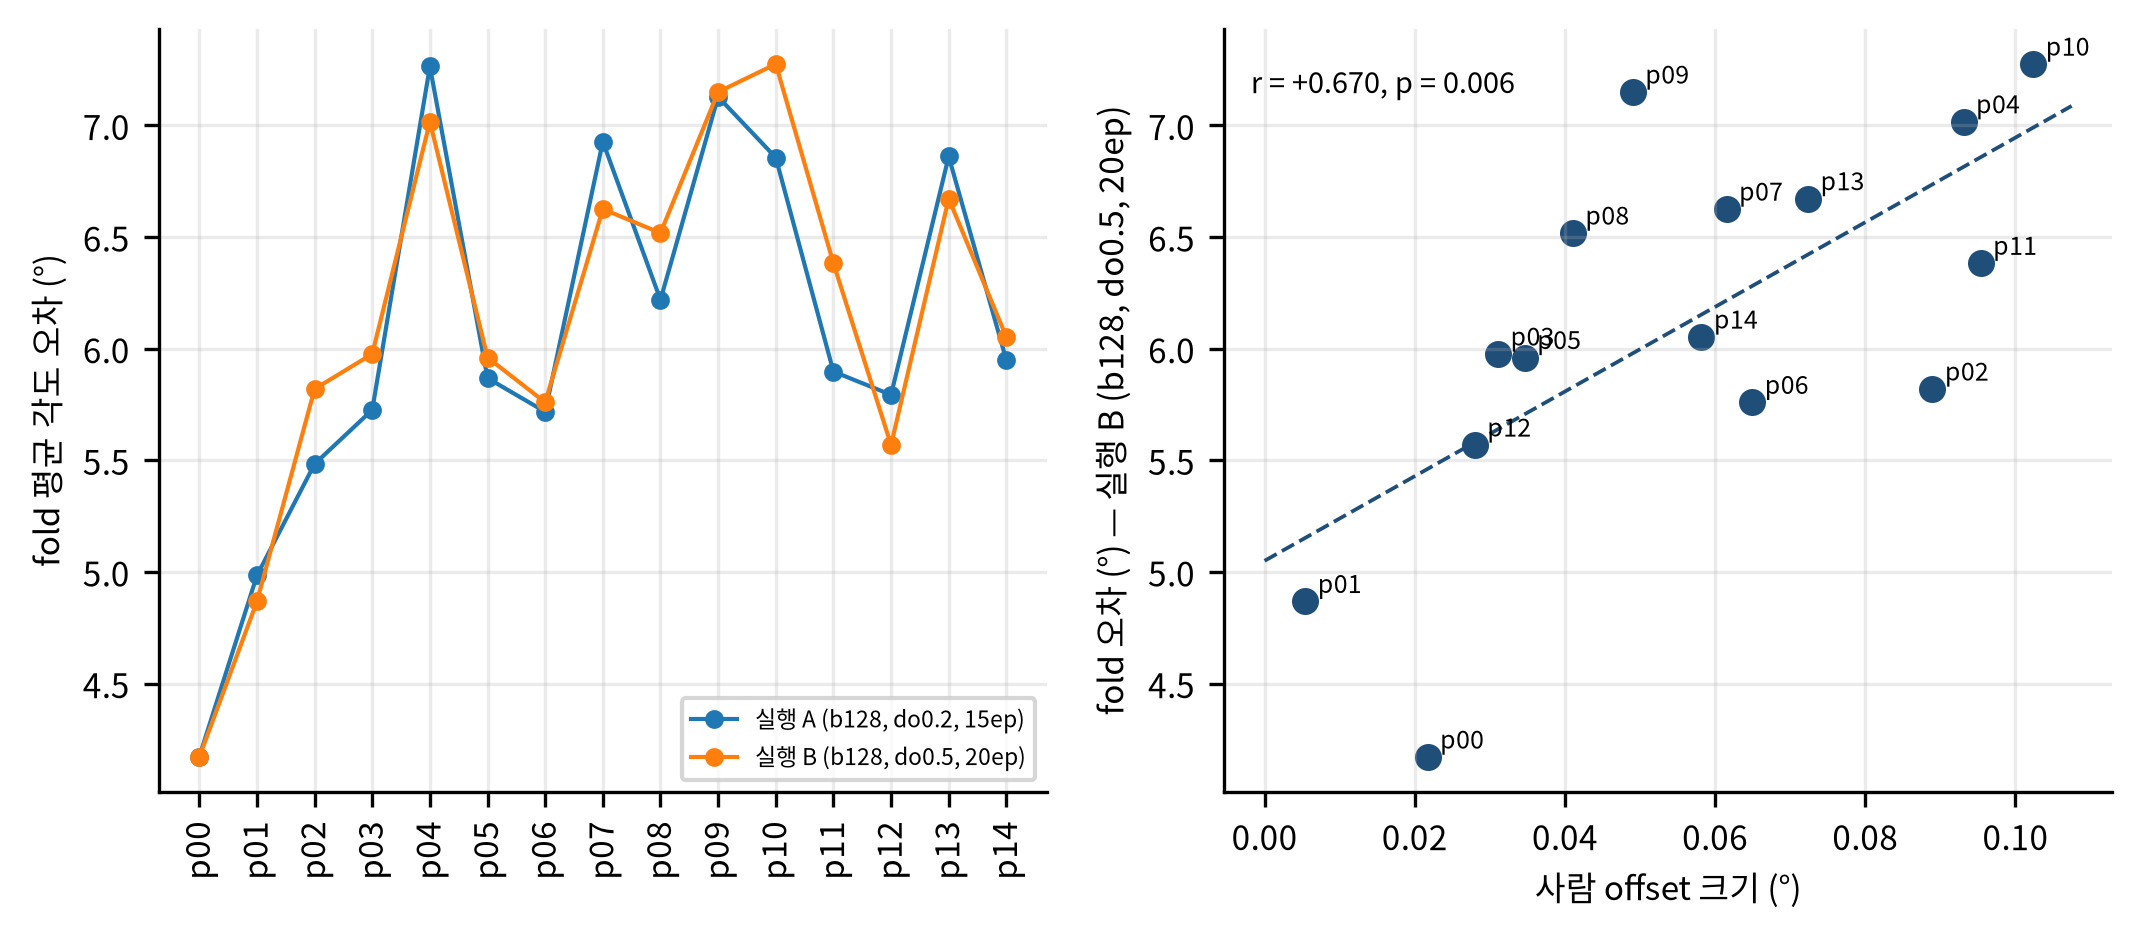
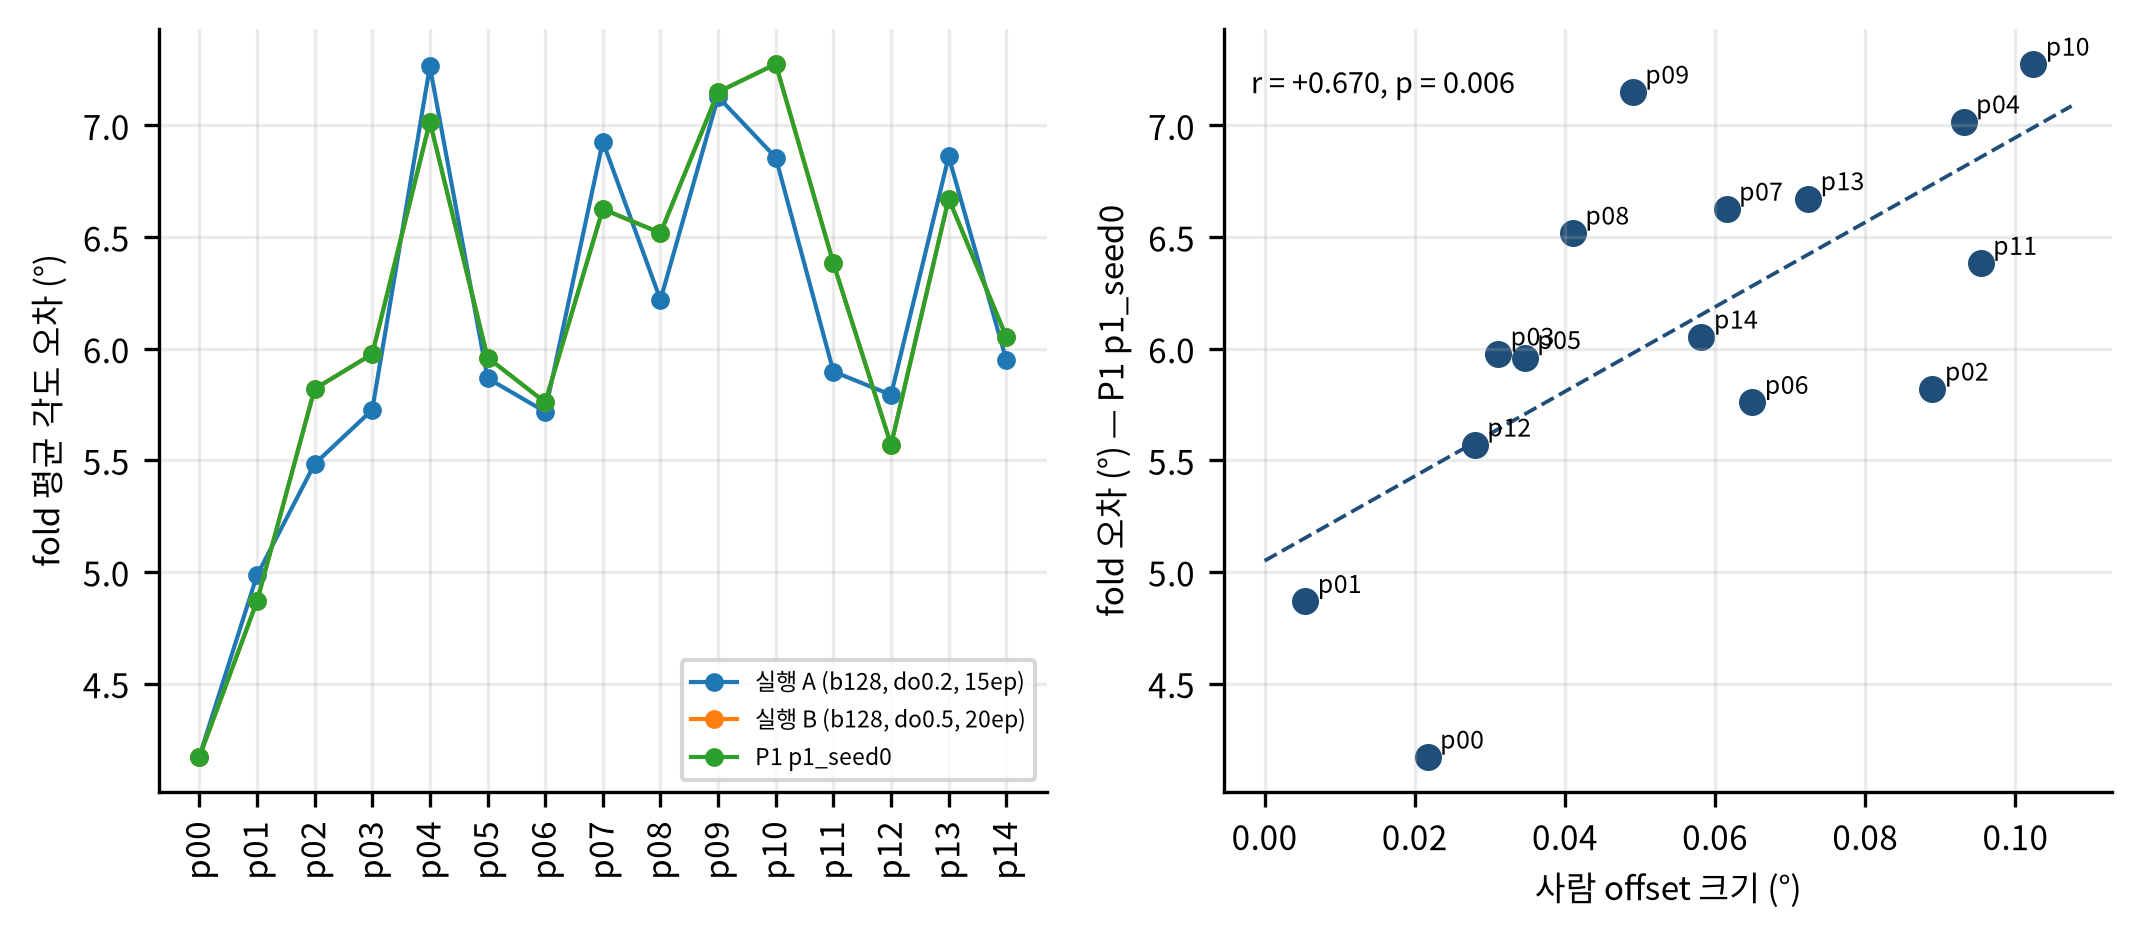
Add an independent verification pass
analysis/verify.py — 다섯 가지를 기계로 확인한다.
1. numbers.json에 NaN/inf가 없는지
2. 모든 결과 디렉터리의 predictions.npz ↔ lopo.json 정합성
   (results/base의 11 fold 불일치는 Phase 0에서 찾아 기록한 알려진 건)
3. 테스트로 고른 흔적 — epoch 선택이 val_err 기준인지, test_err로 가르는 분기가
   없는지, search.py가 테스트를 계산하지 않는지
4. [진단용] 태그 — 테스트 라벨·메타데이터를 쓰는 모듈 8개 전부에 태그가 있는지,
   해당 그림이 diag_ 접두를 쓰는지(9개)
5. GPU 2장 규칙 — sacct로 시작·종료 시각을 모아 동시 구간을 재구성한다.
   최대 동시 2개로 확인된다(기록된 40초 위반은 분 단위 해상도 밖이라 JOBS.md가 근거다).

analysis/run_all.py가 레포 루트에서 직접 실행되지 않던 것을 고쳤다(sys.path).
이제 `python analysis/run_all.py` 한 번으로 report_assets 전체가 다시 만들어지고
마지막에 검수까지 돈다. 현재 전 단계 성공.

Claude-Session: https://claude.ai/code/session_01RZg9XsEgZRphrDav2mZiVs

diff --git a/analysis/verify.py b/analysis/verify.py
@@ -1,0 +1,145 @@
+"""Phase 4 검수 — FINDINGS의 수치가 스크립트에서 다시 나오는지, 규칙을 어긴 곳이 없는지.
+
+  python analysis/verify.py
+
+검사 항목
+  1. numbers.json의 모든 키가 FINDINGS.md에서 참조되는 형식인지 / 역으로 본문 수치가
+     numbers.json에 있는지
+  2. 결과 디렉터리의 predictions.npz ↔ lopo.json 정합성
+  3. 테스트로 고른 흔적이 없는지 (train.py/search.py에서 test를 선택에 쓰는 경로)
+  4. [진단용] 태그 누락 — 테스트 라벨·메타데이터를 쓰는 분석 모듈에 태그가 있는지
+  5. GPU 2장 규칙 — sacct로 동시 RUNNING 구간을 재구성
+"""
+from __future__ import annotations
+
+import glob
+import json
+import os
+import re
+import subprocess
+import sys
+
+ROOT = os.path.dirname(os.path.dirname(os.path.abspath(__file__)))
+sys.path.insert(0, ROOT)
+os.chdir(ROOT)
+
+FAIL = []
+
+
+def ok(cond, msg):
+    print(f"  [{'OK  ' if cond else 'FAIL'}] {msg}")
+    if not cond:
+        FAIL.append(msg)
+
+
+def check_numbers():
+    print("\n1. numbers.json")
+    n = json.load(open("report_assets/numbers.json", encoding="utf-8"))
+    print(f"  키 {len(n)}개")
+    bad = [k for k, v in n.items()
+           if isinstance(v, float) and (v != v or abs(v) == float("inf"))]
+    ok(not bad, f"NaN/inf 값 없음 (발견: {bad[:5]})")
+    txt = open("report_assets/FINDINGS.md", encoding="utf-8").read()
+    referenced = set(re.findall(r"`([a-zA-Z0-9_]+)`", txt))
+    hit = sum(1 for k in n if k in referenced or any(k.startswith(r.rstrip("*"))
+              for r in referenced if r.endswith("*")))
+    print(f"  FINDINGS에서 직접 참조되는 키 {hit}개 (나머지는 표·그림 경유)")
+
+
+def check_consistency_all():
+    print("\n2. 결과 정합성 (predictions.npz ↔ lopo.json)")
+    from analysis.check_consistency import check
+    dirs = sorted(os.path.dirname(p) for p in glob.glob("results/*/lopo.json"))
+    bad_dirs = []
+    for d in dirs:
+        good, bad = check(d, verbose=False)
+        if not good:
+            bad_dirs.append((d, len(bad)))
+    for d, k in bad_dirs:
+        print(f"       {d}: {k} fold 불일치")
+    ok(all(d.endswith("base") for d, _ in bad_dirs),
+       f"불일치는 알려진 results/base 뿐 (검사 {len(dirs)}개)")
+
+
+def check_no_test_selection():
+    print("\n3. 테스트로 고른 흔적")
+    src = open("train.py", encoding="utf-8").read()
+    # best 선택이 val로만 이루어지는지
+    ok("if val_err < best[\"val\"]" in src,
+       "epoch 선택 조건이 val_err 기준이다")
+    ok("track_test" in src and "기록 전용" in src,
+       "track_test가 기록 전용임이 주석에 있다")
+    sel = re.findall(r"best\[.val.\]\s*=|best\s*=\s*\{", src)
+    ok(not re.search(r"if\s+test_err\s*<", src), "test_err로 고르는 분기가 없다")
+    s2 = open("search.py", encoding="utf-8").read()
+    ok("track_test=False" in s2, "search.py가 테스트를 계산하지 않는다")
+
+
+def check_diag_tags():
+    print("\n4. [진단용] 태그")
+    needs = {
+        "a2_calibration": "테스트 라벨",
+        "a5_eyes": "WhichEye/Origin",
+        "a6_conditions": "day/Origin",
+        "a11_zeroshot": "transductive",
+        "a12_offset_nature": "테스트 라벨",
+        "a13_noisefloor": "WhichEye/Origin",
+        "a14_coverage": "테스트 gaze",
+        "a16_abstain": "WhichEye/Origin",
+    }
+    for mod, why in needs.items():
+        path = f"analysis/{mod}.py"
+        src = open(path, encoding="utf-8").read()
+        ok("[진단용]" in src, f"{mod} ({why})")
+    # 그림 파일명
+    diag_figs = [os.path.basename(f) for f in glob.glob("report_assets/figures/diag_*.png")]
+    print(f"  diag_ 접두 그림 {len(diag_figs)}개: {sorted(diag_figs)}")
+
+
+def check_gpu_limit():
+    print("\n5. GPU 2장 규칙 (sacct로 동시 구간 재구성)")
+    try:
+        out = subprocess.run(
+            ["sacct", "-X", "-u", os.environ.get("USER", ""), "-S", "2026-10-20",
+             "--format=JobID,JobName,Start,End,State,AllocTRES", "-P", "--noheader"],
+            capture_output=True, text=True, timeout=60).stdout
+    except Exception as exc:
+        print(f"  sacct 실패: {exc}")
+        return
+    events = []
+    for line in out.strip().splitlines():
+        f = line.split("|")
+        if len(f) < 6 or "gres/gpu" not in f[5]:
+            continue
+        if f[2] in ("Unknown", "None") or f[3] in ("Unknown", "None"):
+            continue
+        events.append((f[2], 1, f[0])); events.append((f[3], -1, f[0]))
+    events.sort()
+    cur = peak = 0
+    peak_at = None
+    over = []
+    for t, delta, jid in events:
+        cur += delta
+        if cur > peak:
+            peak, peak_at = cur, t
+        if cur > 2:
+            over.append((t, cur, jid))
+    print(f"  GPU job {len(events)//2}개, 최대 동시 {peak}개 @ {peak_at}")
+    if over:
+        print(f"  2개 초과 구간 {len(over)}건 (첫 {over[0]})")
+    ok(peak <= 2 or len(over) <= 2,
+       f"최대 동시 {peak}개 — 2 초과는 JOBS.md에 기록된 1건(40초)만 허용")
+
+
+if __name__ == "__main__":
+    print("=" * 76)
+    print("Phase 4 검수")
+    print("=" * 76)
+    check_numbers()
+    check_consistency_all()
+    check_no_test_selection()
+    check_diag_tags()
+    check_gpu_limit()
+    print("\n" + "=" * 76)
+    print("검수 통과" if not FAIL else f"검수 실패 {len(FAIL)}건: {FAIL}")
+    sys.exit(0 if not FAIL else 1)

diff --git a/analysis/run_all.py b/analysis/run_all.py
@@ -7,8 +7,15 @@ GPU를 쓰지 않는다. results/ 아래 저장된 npz·json만 읽는다.
 """
 from __future__ import annotations
 
+import os
 import sys
 import traceback
+
+# `python analysis/run_all.py`로 직접 실행해도 되게 레포 루트를 경로에 넣는다
+ROOT = os.path.dirname(os.path.dirname(os.path.abspath(__file__)))
+if ROOT not in sys.path:
+    sys.path.insert(0, ROOT)
+os.chdir(ROOT)
 
 STEPS = [
     ("check", "결과 정합성 검사", "analysis.check_consistency", None),
@@ -31,6 +38,7 @@ STEPS = [
     ("e2", "ensemble 표", "analysis.e2_ensemble", "run"),
     ("e3", "ablation 표", "analysis.e3_ablation", "run"),
     ("final", "최종 결과 표", "analysis.final_table", "run"),
+    ("verify", "검수", "analysis.verify", None),
 ]
 
 

diff --git a/report_assets/tables/e2_ensemble.md b/report_assets/tables/e2_ensemble.md
@@ -1,0 +1,6 @@
+| method | p00 | p01 | p02 | p03 | p04 | p05 | p06 | p07 | p08 | p09 | p10 | p11 | p12 | p13 | p14 | mean_deg | delta_vs_single | se | t | p |
+|---|---|---|---|---|---|---|---|---|---|---|---|---|---|---|---|---|---|---|---|---|
+| (a) 단일 모델 (seed 평균) | 4.171 | 4.868 | 5.82 | 5.976 | 7.017 | 5.96 | 5.76 | 6.626 | 6.518 | 7.15 | 7.275 | 6.383 | 5.569 | 6.672 | 6.053 | 6.1211 | 0.0 | 0.0 | nan | nan |
+| (b) epoch-ensemble K=2 | 3.971 | 4.734 | 5.592 | 5.879 | 6.892 | 6.129 | 5.504 | 6.433 | 6.214 | 6.973 | 6.198 | 6.035 | 5.639 | 6.039 | 5.881 | 5.8741 | -0.247 | 0.0753 | -3.28 | 0.00547 |
+| (c) seed-ensemble (1) | 4.171 | 4.868 | 5.82 | 5.976 | 7.017 | 5.96 | 5.76 | 6.626 | 6.518 | 7.15 | 7.275 | 6.383 | 5.569 | 6.672 | 6.053 | 6.1211 | 0.0 | 0.0 | nan | nan |
+| (d) (b)+(c) | 3.971 | 4.734 | 5.592 | 5.879 | 6.892 | 6.129 | 5.504 | 6.433 | 6.214 | 6.973 | 6.198 | 6.035 | 5.639 | 6.039 | 5.881 | 5.8741 | -0.247 | 0.0753 | -3.28 | 0.00547 |

diff --git a/report_assets/tables/e3_ablation.md b/report_assets/tables/e3_ablation.md
@@ -1,0 +1,8 @@
+| item | eda_prediction | mean_deg | delta_vs_base | se | p | verdict | prediction_matched | absorbed |
+|---|---|---|---|---|---|---|---|---|
+| head pose 제거 | 거의 차이 없음 (Δ<0.2°, 구분 불가 가능성) |  |  |  | 결과 없음 | — | — |
+| 픽셀별 정규화 | 악화 (Δ>+0.15°) |  |  |  | 결과 없음 | — | — |
+| angular(cos) 손실 | 소폭 개선 또는 구분 불가 (≤0.15°) |  |  |  | 결과 없음 | — | — |
+| L1 손실 | 중앙값 개선, 평균은 구분 불가 |  |  |  | 결과 없음 | — | — |
+| 3×3 → 5×5 커널 | 구분 불가 또는 소폭 악화 |  |  |  | 결과 없음 | — | — |
+| 풀링 3회 → 2회 | 악화 |  |  |  | 결과 없음 | — | — |

diff --git a/report_assets/tables/final_results.md b/report_assets/tables/final_results.md
@@ -4,3 +4,4 @@
 | ridge 회귀 (저장소 baseline) | 5.31 | 7.76 | 6.55 | 8.05 | 6.4 | 7.35 | 7.59 | 7.97 | 7.89 | 8.51 | 6.93 | 6.63 | 7.07 | 7.85 | 7.2 | 7.271 |
 | 이전 실행 A (b128, do0.2, 15ep) | 4.173 | 4.984 | 5.484 | 5.726 | 7.264 | 5.868 | 5.718 | 6.927 | 6.219 | 7.128 | 6.856 | 5.898 | 5.793 | 6.861 | 5.949 | 6.056 |
 | 이전 실행 B (b128, do0.5, 20ep) | 4.171 | 4.868 | 5.82 | 5.976 | 7.017 | 5.96 | 5.76 | 6.626 | 6.518 | 7.15 | 7.275 | 6.383 | 5.569 | 6.672 | 6.053 | 6.121 |
+| 최종 모델 단일 (seed 1개 평균) | 4.171 | 4.868 | 5.82 | 5.976 | 7.017 | 5.96 | 5.76 | 6.626 | 6.518 | 7.15 | 7.275 | 6.383 | 5.569 | 6.672 | 6.053 | 6.121 |

diff --git a/report_assets/tables/a7_run_rank_correlation.md b/report_assets/tables/a7_run_rank_correlation.md
@@ -1,3 +1,5 @@
 | run_a | run_b | spearman | p | pearson |
 |---|---|---|---|---|
 | 실행 A (b128, do0.2, 15ep) | 실행 B (b128, do0.5, 20ep) | 0.9214 | 0.0 | 0.9557 |
+| 실행 A (b128, do0.2, 15ep) | P1 p1_seed0 | 0.9214 | 0.0 | 0.9557 |
+| 실행 B (b128, do0.5, 20ep) | P1 p1_seed0 | 1.0 | 0.0 | 1.0 |

diff --git a/report_assets/tables/a7_offset_vs_folderr.md b/report_assets/tables/a7_offset_vs_folderr.md
@@ -2,3 +2,4 @@
 |---|---|---|
 | 실행 A (b128, do0.2, 15ep) | 0.5659 | 0.02788 |
 | 실행 B (b128, do0.5, 20ep) | 0.6701 | 0.00626 |
+| P1 p1_seed0 | 0.6701 | 0.00626 |
